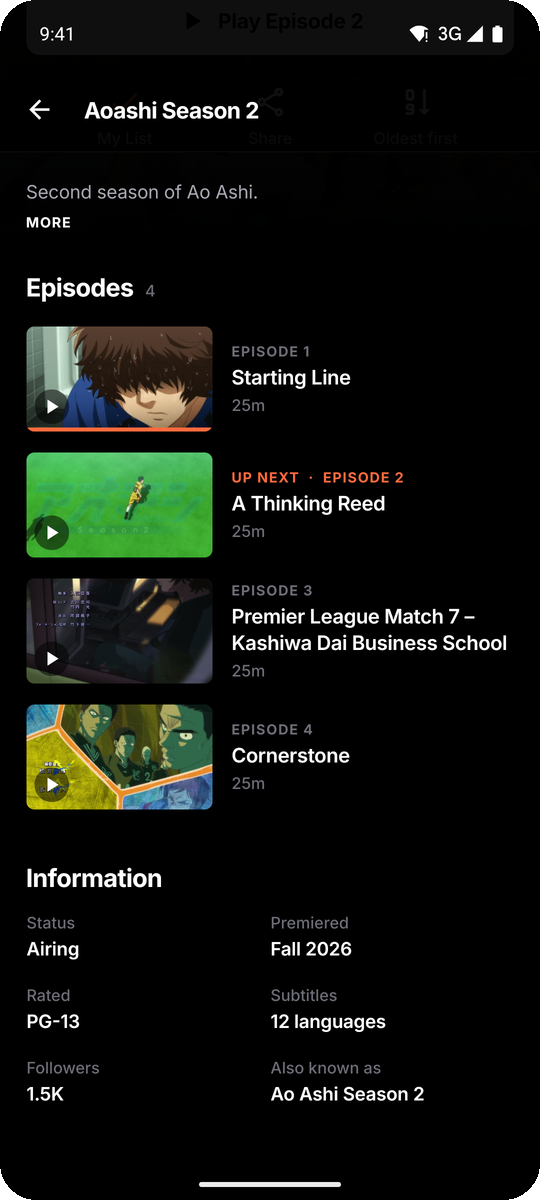
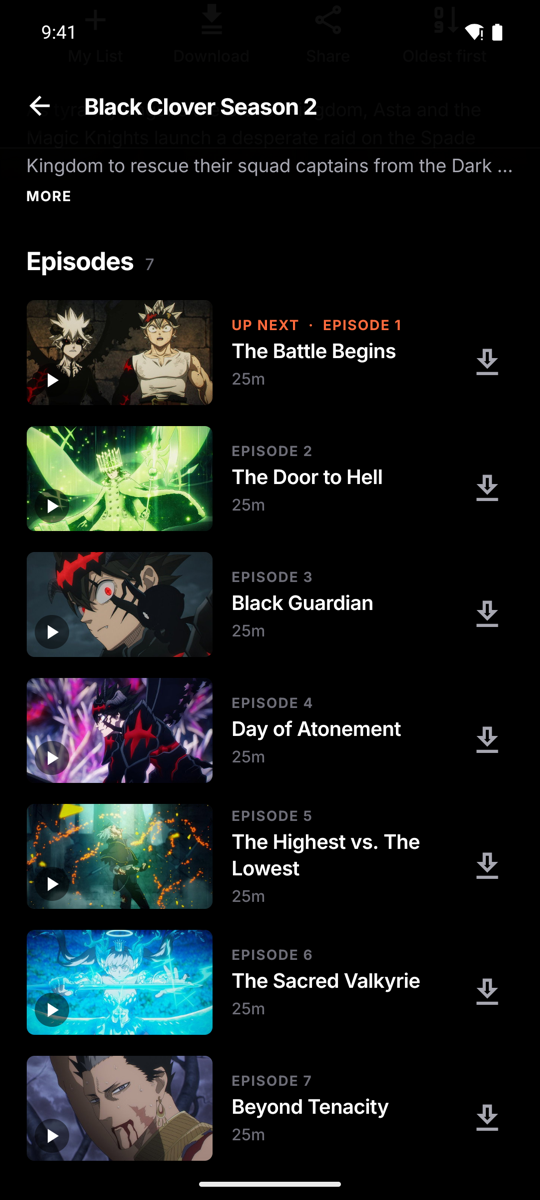
README: new phone and Samsung TV screenshots on miruro.cx

diff --git a/README.md b/README.md
@@ -41,9 +41,9 @@
 <table align="center">
   <tr>
     <td align="center"><img src="docs/screens/home.png" width="200" alt="Home"><br><sub><b>Home</b></sub></td>
-    <td align="center"><img src="docs/screens/show.png" width="200" alt="Aoashi Season 2"><br><sub><b>Aoashi S2</b></sub></td>
+    <td align="center"><img src="docs/screens/show.png" width="200" alt="Black Clover Season 2"><br><sub><b>Black Clover S2</b></sub></td>
     <td align="center"><img src="docs/screens/episodes.png" width="200" alt="Episodes"><br><sub><b>Episodes</b></sub></td>
-    <td align="center"><img src="docs/screens/rails.png" width="200" alt="Top 10 and new episodes"><br><sub><b>Top 10</b></sub></td>
+    <td align="center"><img src="docs/screens/rails.png" width="200" alt="Continue Watching, Top 10 and new episodes"><br><sub><b>Top 10</b></sub></td>
   </tr>
   <tr>
     <td align="center"><img src="docs/screens/search.png" width="200" alt="Search"><br><sub><b>Search</b></sub></td>
@@ -54,7 +54,7 @@
 </table>
 
 <p align="center">
-  <img src="docs/screens/player.png" width="820" alt="Aoashi Season 2 playing full screen in Kitsune"><br>
+  <img src="docs/screens/player.png" width="820" alt="Black Clover Season 2 playing full screen in Kitsune"><br>
   <sub><b>The player:</b> just the video, in Kitsune's own native player, with skip intro, subtitles, quality, audio language and speed a tap away.</sub>
 </p>
 
@@ -278,7 +278,7 @@ Kitsune stands on a lot of great work:
 - **[Material Design Icons](https://pictogrammers.com/library/mdi/)** by Pictogrammers (Apache 2.0), via `@expo/vector-icons`.
 - **[Inter](https://rsms.me/inter/)** by Rasmus Andersson and **[Unbounded](https://unbounded.polkadot.network)**, both under the [SIL Open Font License 1.1](assets/fonts/OFL.txt).
 - Screenshots feature **Aoashi Season 2**. *Aoashi* © Yūgo Kobayashi / Shogakukan and its licensors. Artwork appears only to show the app in use.
-- TV screenshots show titles from the catalog (*The Exiled Heavy Knight Knows How to Game the System*, *Frieren*, *Black Clover* and others); artwork belongs to its owners and appears only to show the app in use. The Android TV shots come from a Google TV emulator; the Samsung shots are the TV module rendering live catalog data at 1920×1080 in desktop Chrome. The player shots show the on-screen controls over an episode still.
+- Screenshots show titles from miruro.cx's catalog (*Black Clover*, *The Apothecary Diaries*, *ONE PIECE* and others); artwork belongs to its owners and appears only to show the app in use. The phone and Android TV shots come from Android emulators running the release APK; the Samsung shots are the TV module running on miruro.cx at 1920×1080 in desktop Chrome, as TizenBrew runs it. The player shots show the on-screen controls over an episode playing.
 
 ## Disclaimer
 
